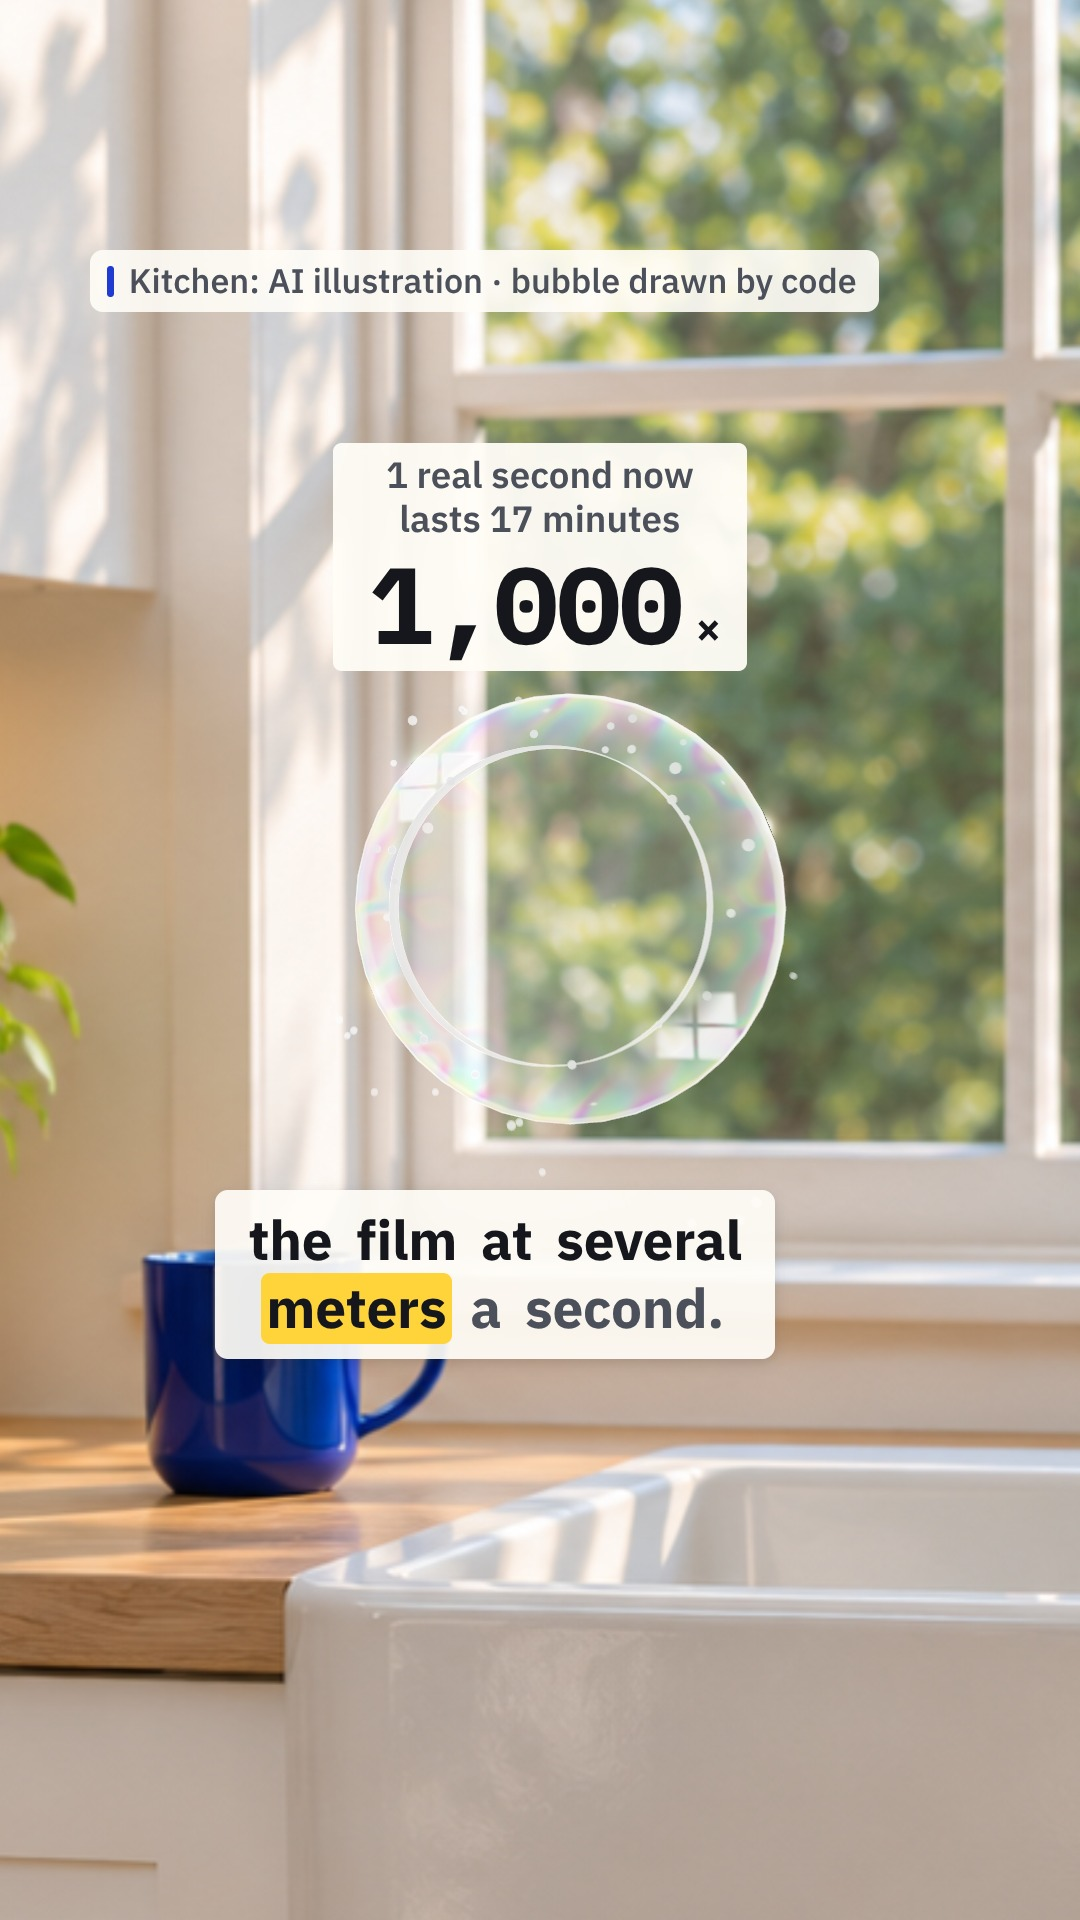
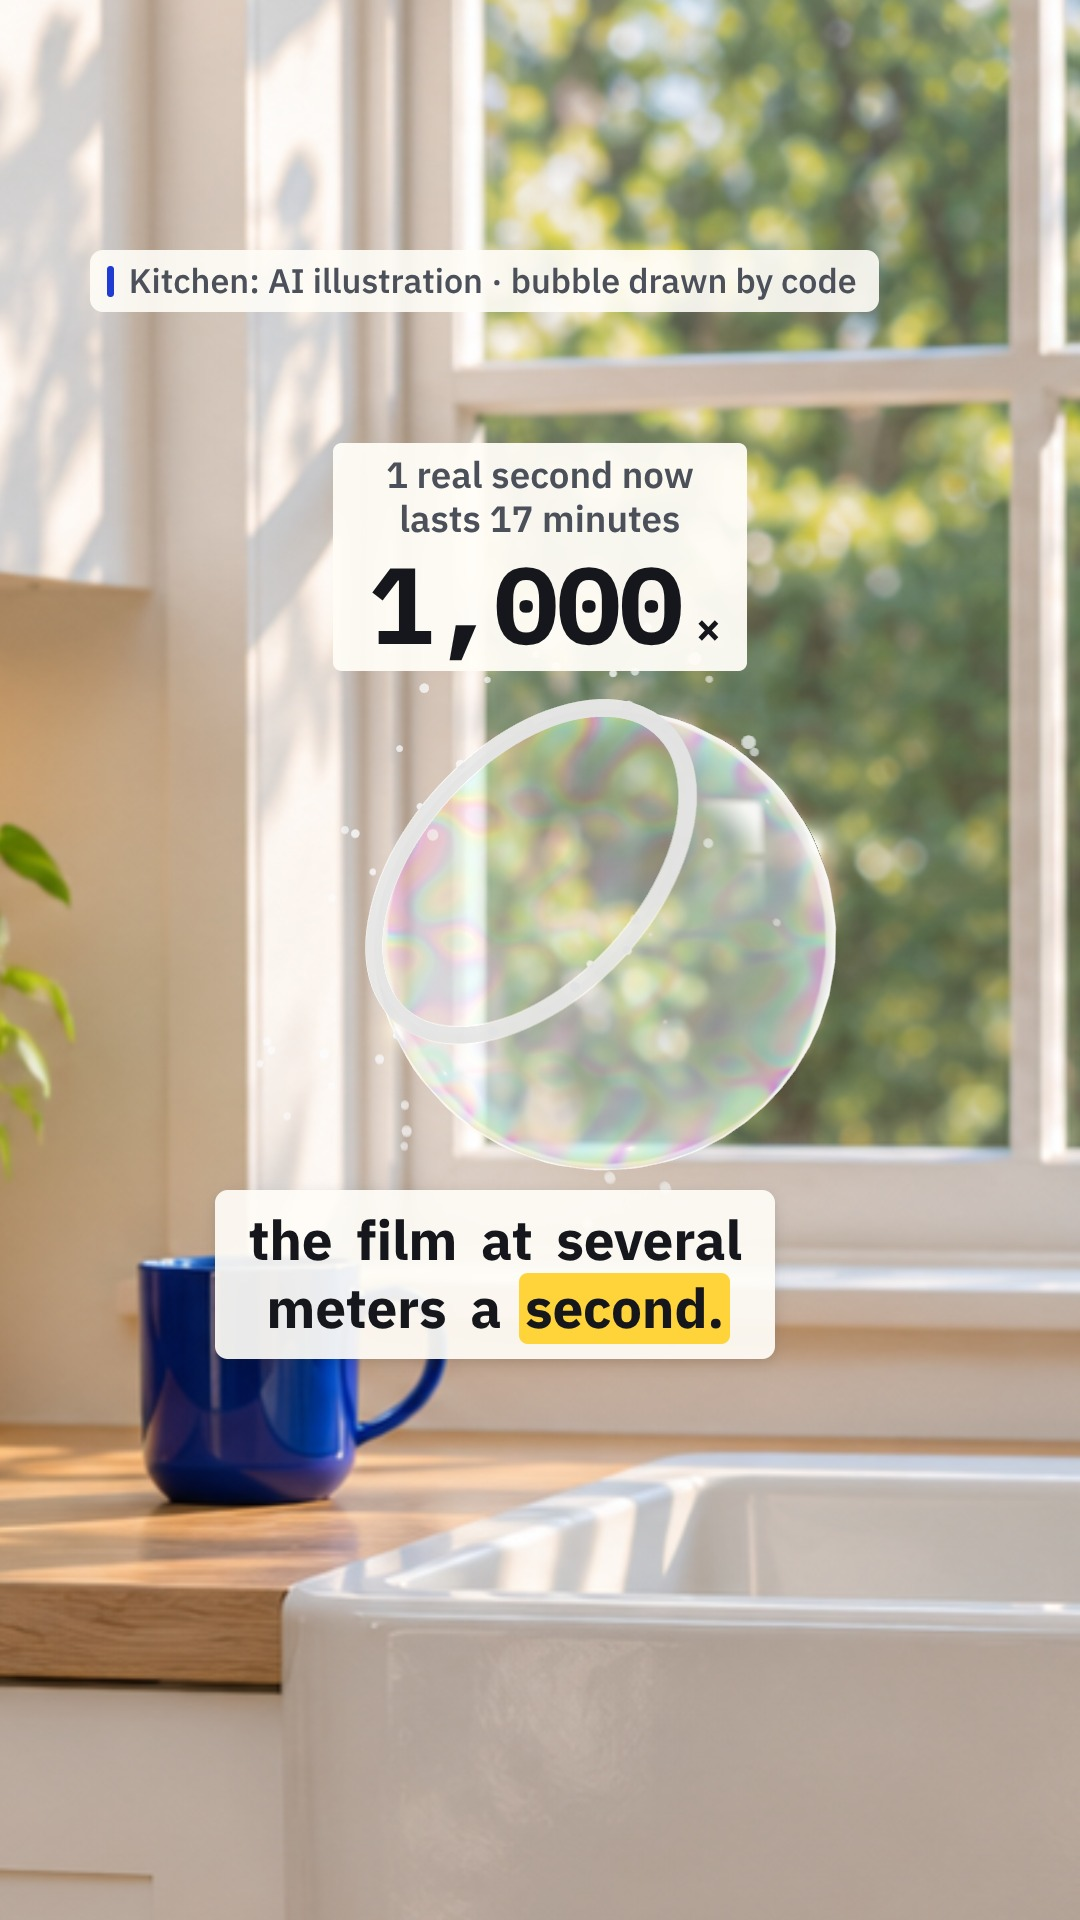
Plate-05 bubble v3: off-centre tear with a sweeping lip, swirls over the whole film, per-aspect scale
Claude-Session: https://claude.ai/code/session_0192s8Y3nHgGCCsvNARxNLPn

diff --git a/films/channels/physics/lf01/build.py b/films/channels/physics/lf01/build.py
@@ -275,7 +275,7 @@ PLATE05 = "../lf01/art/owner/plates/plate-05-sink-16x9.png"
 _p05 = {"id": "sink", "file": PLATE05, "file9": PLATE05, "push": 0.5, "parallax": 0, "fade": 0.3,
         "shift": {"x": round((600 - 836) / _PX, 4), "y": round((470.5 - 440) / _PX, 4), "ppm": _PX}, "shift9": {"x": round((600 - 836) / _PX, 4), "y": round((470.5 - 440) / _PX, 4), "ppm": _PX},   # push in on the bubble: it fills about a quarter of the frame at the tear
         "cam3": {"pos": [0, 0.4, 0], "target": [0, 0.396, -1], "fov": 29.5},
-        "anchor": {"rig": {"kind": "bubble", "pos": [round((600 - 836) / _PX, 4), round(0.4 + (470.5 - 440) / _PX, 4), -1.0], "scale": round(3300 / _PX, 4), "rotX": 0}}}
+        "anchor": {"rig": {"kind": "bubble", "pos": [round((600 - 836) / _PX, 4), round(0.4 + (470.5 - 440) / _PX, 4), -1.0], "scale": round(6200 / _PX, 4), "scale9": round(3500 / _PX, 4), "rotX": 0}}}
 # plate-06: one red apple on the oak counter (Part 5). Its picture is projected onto an apple-shaped proxy mesh (pixel-identical before impact); the apple is 334 px wide, so 4175 px per code-metre
 PLATE06 = "../lf01/art/owner/plates/plate-06-apple-16x9.png"
 _p06 = {"id": "applep", "file": PLATE06, "file9": PLATE06, "push": 0.04, "parallax": 0, "fade": 0.3, "shift9": {"x": round((1085 - 836) / _PX, 4), "ppm": _PX},
